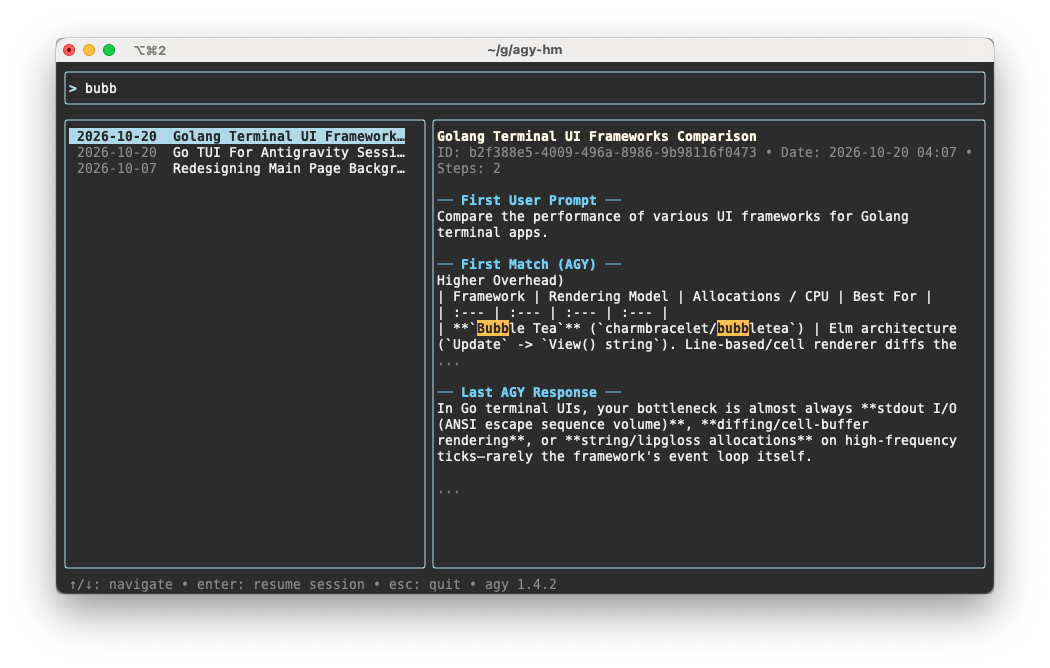
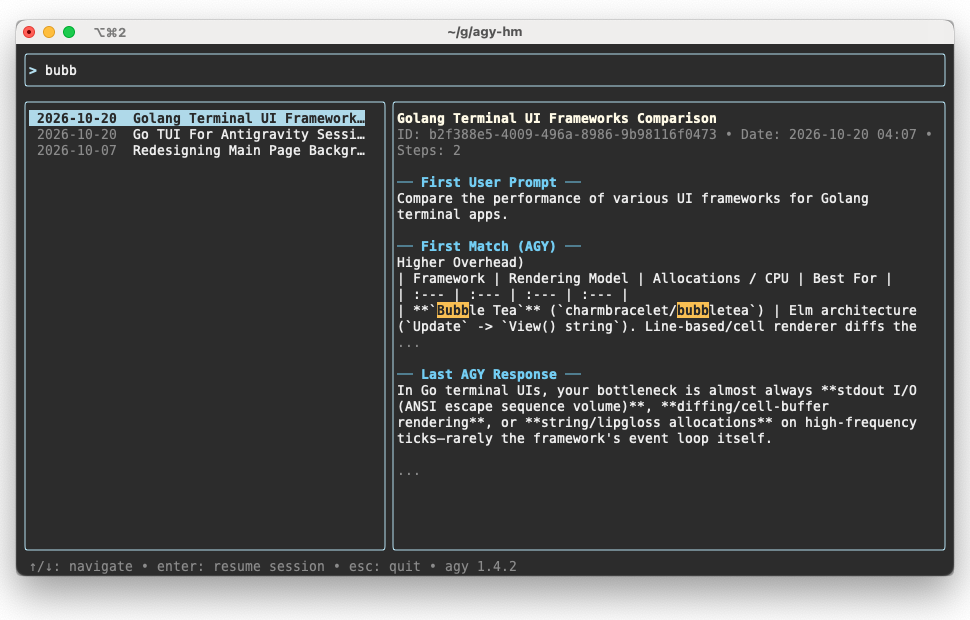
fix readme

diff --git a/README.md b/README.md
@@ -36,7 +36,7 @@
 </p>
 
 <p align="center">
-  <img src="resources/record.gif" width="800" alt="agy-hm Screen Recording"/>
+  <img src="resources/record.gif" width="750" alt="agy-hm Screen Recording"/>
 </p>
 
 ### Keyboard Shortcuts
